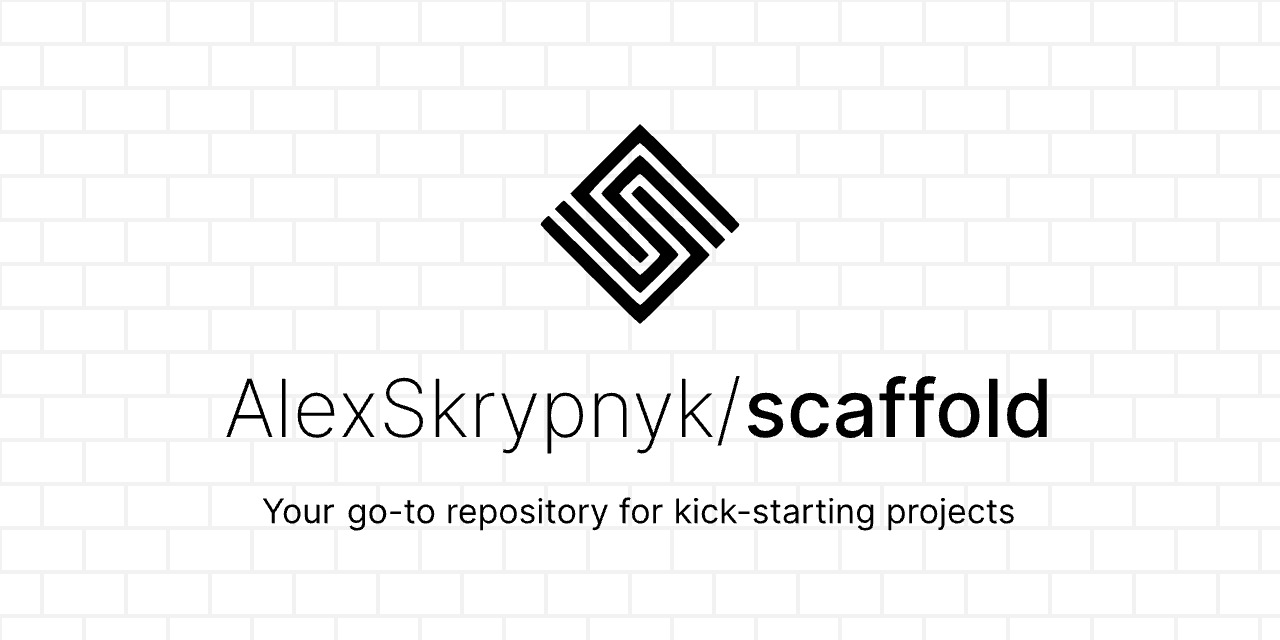
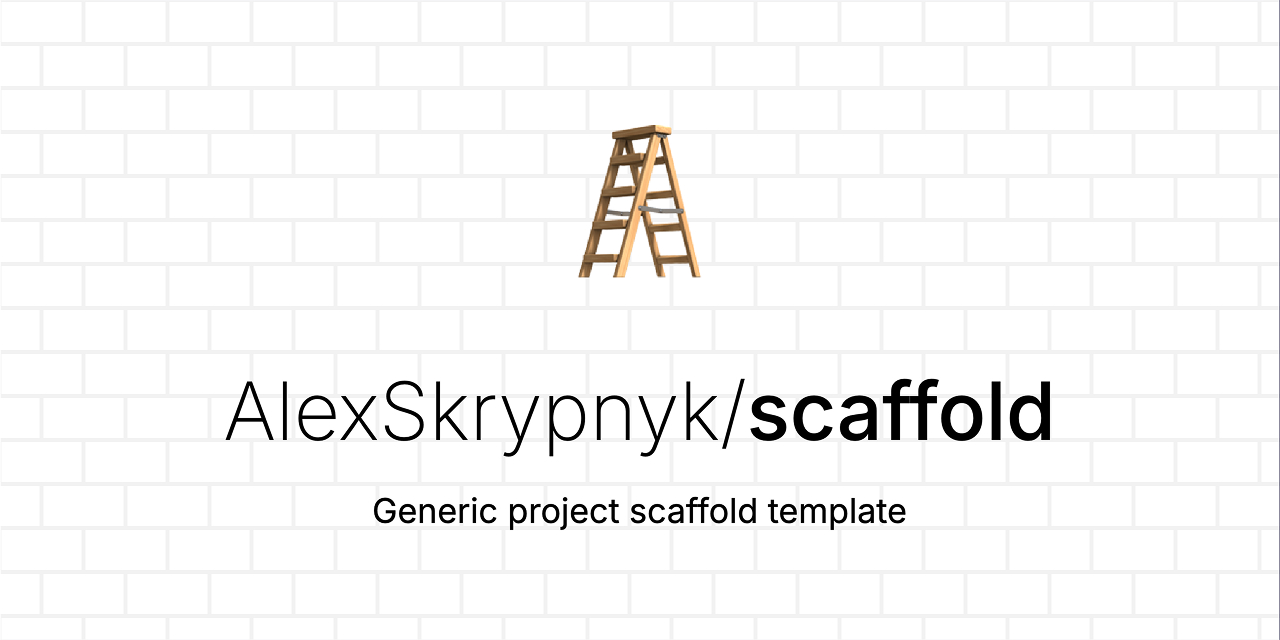
Updated branding.

Changed region(s): [[0.1875, 0.5938, 0.8438, 0.7188], [0.4062, 0.1875, 0.5938, 0.5], [0.1875, 0.7812, 0.8125, 0.8438]]

diff --git a/.scaffold/docs/src/css/custom.css b/.scaffold/docs/src/css/custom.css
@@ -8,25 +8,36 @@
 
 /* You can override the default Infima variables here. */
 :root {
-  --ifm-color-primary: #7253ed;
-  --ifm-color-primary-dark: #5a36ea;
-  --ifm-color-primary-darker: #4e28e8;
-  --ifm-color-primary-darkest: #3a15cb;
-  --ifm-color-primary-light: #8a70f0;
-  --ifm-color-primary-lighter: #967ef2;
-  --ifm-color-primary-lightest: #b9aaf6;
+  --ifm-color-primary: #ff6b00;
+  --ifm-color-primary-dark: #e66000;
+  --ifm-color-primary-darker: #d95a00;
+  --ifm-color-primary-darkest: #b34a00;
+  --ifm-color-primary-light: #ff7f1f;
+  --ifm-color-primary-lighter: #ff8c33;
+  --ifm-color-primary-lightest: #ffad66;
   --ifm-code-font-size: 95%;
   --docusaurus-highlighted-code-line-bg: rgba(0, 0, 0, 0.1);
 }
 
 /* For readability concerns, you should choose a lighter palette in dark mode. */
 [data-theme='dark'] {
-  --ifm-color-primary: #bfaffd;
-  --ifm-color-primary-dark: #9e85fc;
-  --ifm-color-primary-darker: #8d70fb;
-  --ifm-color-primary-darkest: #5b32fa;
-  --ifm-color-primary-light: #e0d9fe;
-  --ifm-color-primary-lighter: #f1eeff;
-  --ifm-color-primary-lightest: #ffffff;
+  --ifm-color-primary: #ff8533;
+  --ifm-color-primary-dark: #ff6b00;
+  --ifm-color-primary-darker: #e66000;
+  --ifm-color-primary-darkest: #cc5500;
+  --ifm-color-primary-light: #ff9955;
+  --ifm-color-primary-lighter: #ffad77;
+  --ifm-color-primary-lightest: #ffc299;
   --docusaurus-highlighted-code-line-bg: rgba(0, 0, 0, 0.3);
+}
+
+.navbar__title {
+  font-size: 1.5em;
+  color: #835634;
+}
+
+[data-theme='dark'] {
+  .navbar__title {
+    color: #bf7f4f;
+  }
 }

diff --git a/.scaffold/docs/docusaurus.config.js b/.scaffold/docs/docusaurus.config.js
@@ -88,9 +88,10 @@ const config = {
       // Replace with your project's social card
       image: 'img/social-card.jpg',
       navbar: {
+        title: 'Scaffold',
         logo: {
           alt: 'Scaffold Logo',
-          src: 'img/logo.svg',
+          src: 'img/logo.png',
         },
         items: [
           {

diff --git a/README.md b/README.md
@@ -1,5 +1,5 @@
 <p align="center">
-  <a href="" rel="noopener"><img src="docs/static/img/logo.svg" alt="Scaffold logo" width=400px/></a>
+  <a href="" rel="noopener"><img src="docs/static/img/logo.png" alt="Scaffold logo" width=400px/></a>
 </p>
 
 <h1 align="center">Generic project scaffold template</h1>
@@ -68,4 +68,3 @@
 3. Run [`./init.sh`](init.sh) to replace `yournamespace`, `yourproject`,
    `Your Name` strings with your own and choose the features.<br/>
    ![init](.scaffold/docs/static/img/init.gif)
-
